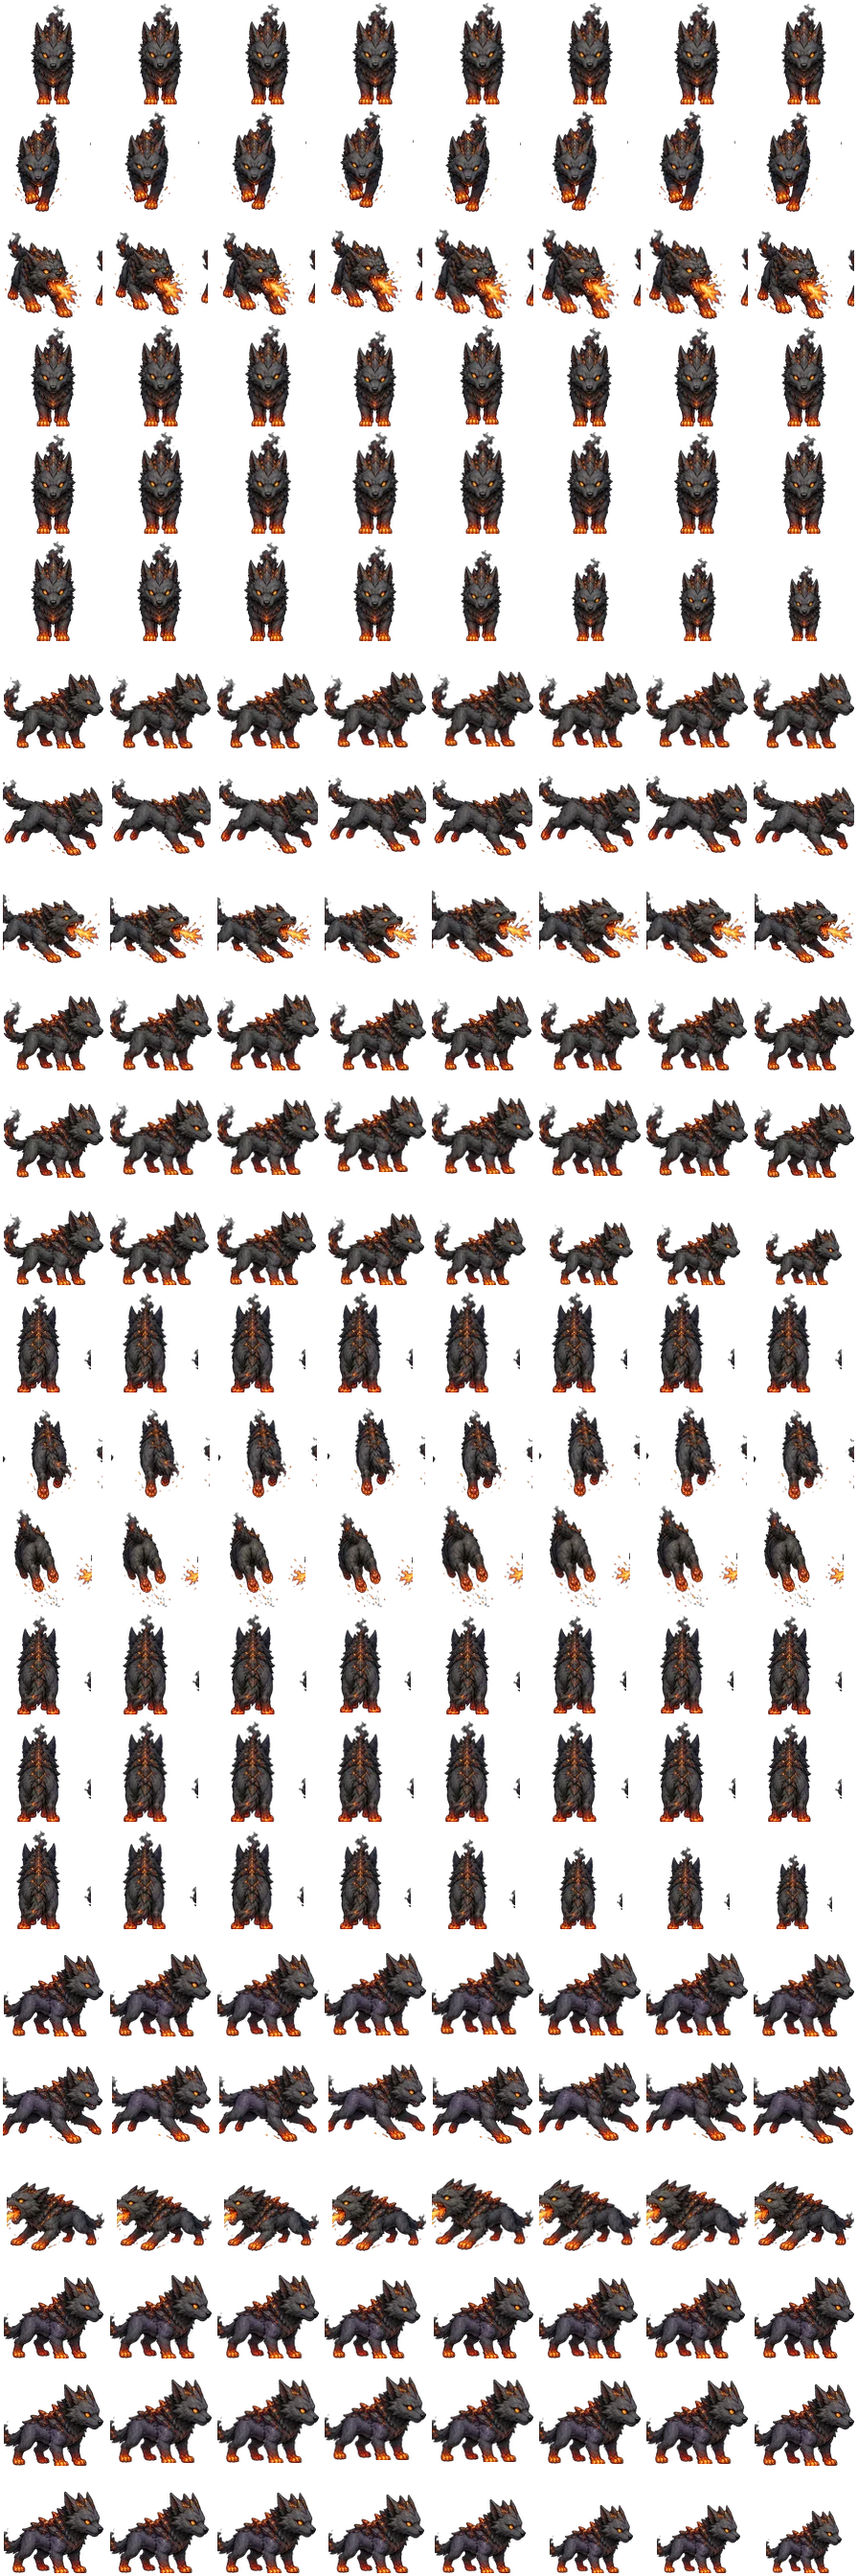
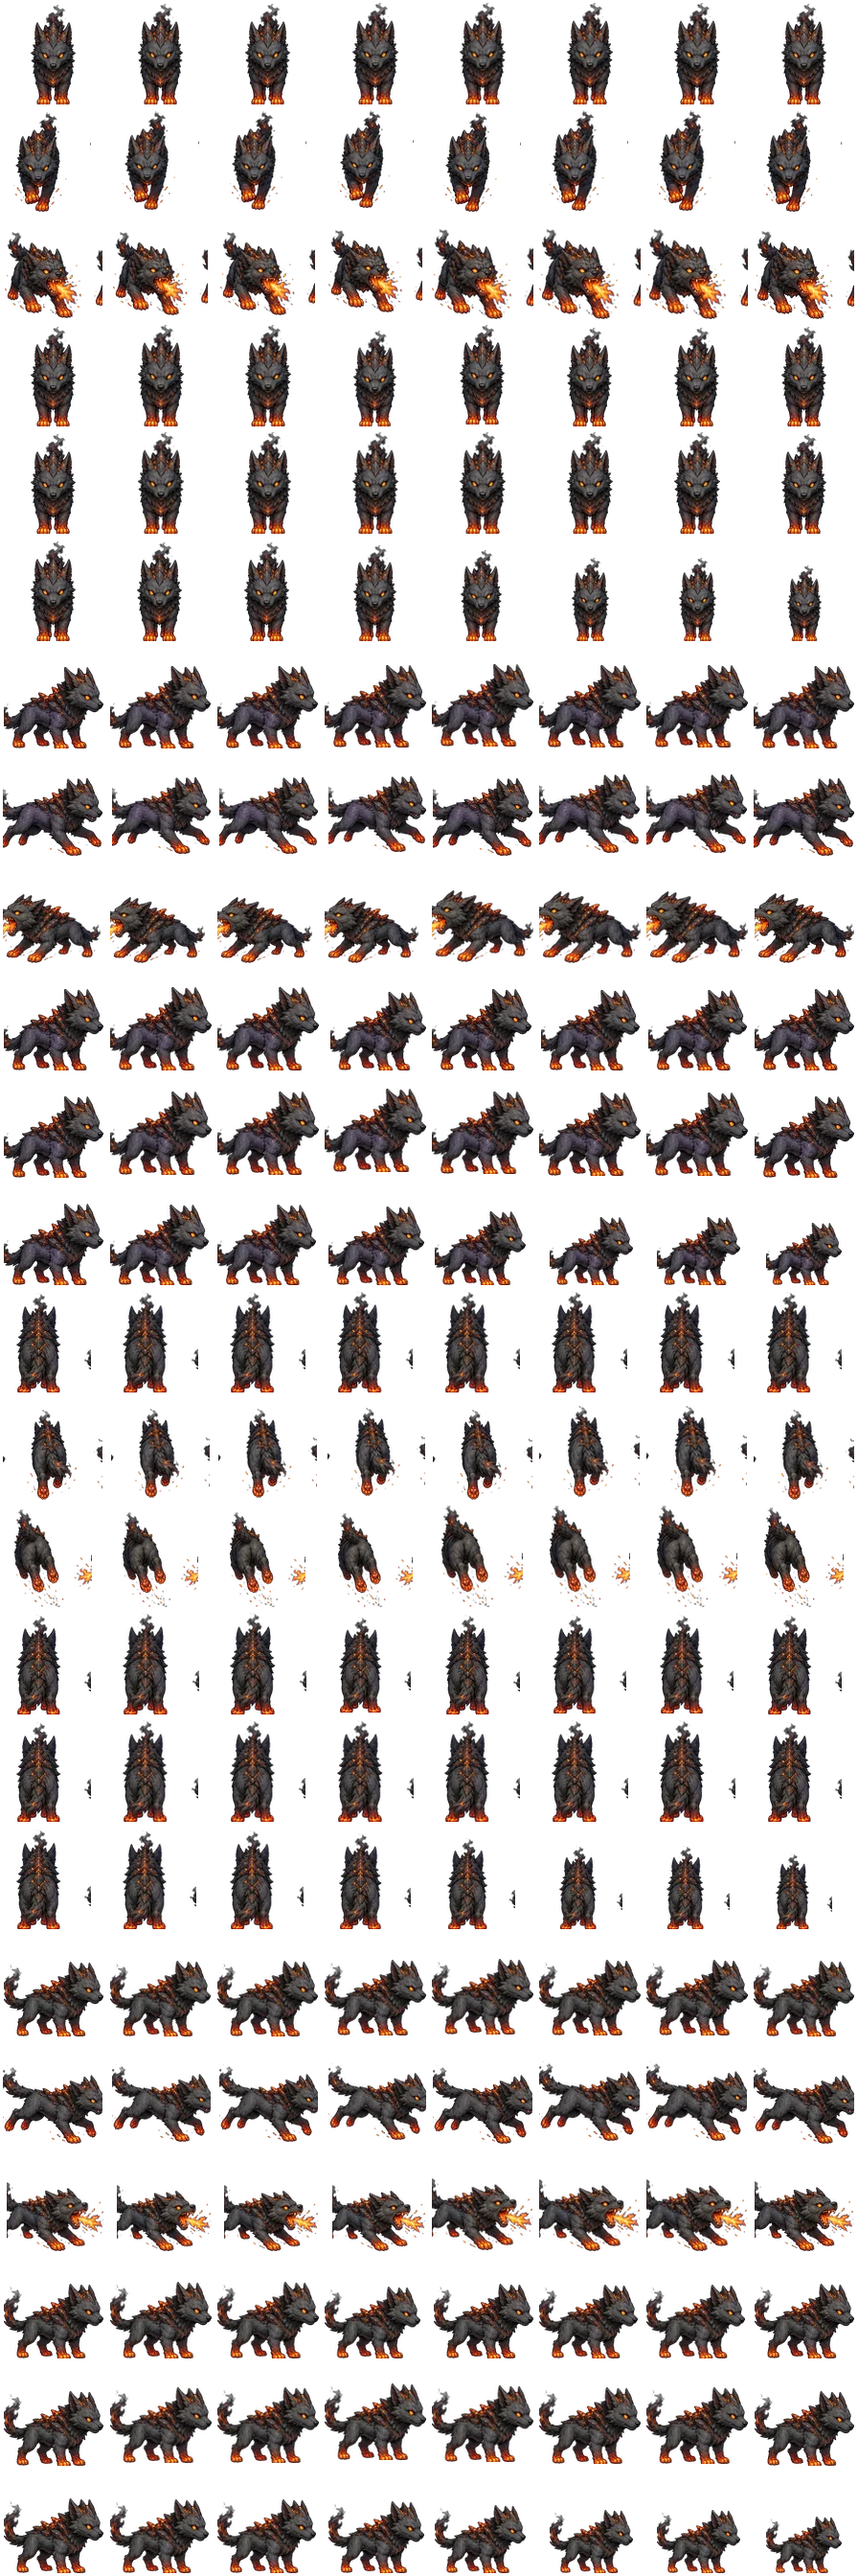
fix: correct ash hound horizontal facing

Changed region(s): [[0.0, 0.75, 1.0, 1.0], [0.0, 0.25, 1.0, 0.5]]

diff --git a/tactics.html b/tactics.html
@@ -79,6 +79,6 @@
   <div id="home-display-modal" class="deploy-modal" hidden><section class="deploy-dialog home-display-dialog" role="dialog" aria-modal="true" aria-labelledby="home-display-title"><div class="deploy-head"><div><p class="eyebrow">旗艦設定</p><h2 id="home-display-title">選擇機庫展示幻獸</h2></div><button class="close-deploy" data-close="home-display-modal" aria-label="關閉展示設定">×</button></div><p class="gacha-info">這五隻是首頁展示候選；更換展示不會影響你實際擁有或出戰的幻獸。</p><label class="home-display-mode"><input id="home-display-follow" type="checkbox"> 展示跟隨目前隊長</label><div id="home-display-grid" class="home-display-grid"></div></section></div>
   <div id="story-modal" class="deploy-modal story-modal" hidden><section class="deploy-dialog story-dialog" role="dialog" aria-modal="true" aria-labelledby="story-title"><div id="story-art" class="story-art"></div><div class="story-body"><p id="story-kicker" class="eyebrow"></p><p id="story-speaker" class="story-speaker"></p><h2 id="story-title"></h2><p id="story-copy"></p><button id="story-next" class="primary" type="button">繼續</button></div></section></div>
   <script>window.__consoleErrors=[];window.addEventListener('error',function(e){window.__consoleErrors.push(String(e.message||e.error));});window.addEventListener('unhandledrejection',function(e){window.__consoleErrors.push(String(e.reason));});</script>
-  <script src="js/data/pets.js"></script><script src="js/data/pets-lightdark.js?v=1"></script><script src="js/data/pets-pack.js?v=1"></script><script src="js/data/tactical-pets.js?v=8"></script><script src="js/data/tactical-enemies.js?v=5"></script><script src="js/data/map-terrain.js?v=1"></script><script src="js/data/tactical-content.js?v=11"></script><script src="js/data/story-content.js?v=3"></script><script src="js/data/animation-config.js?v=1"></script><script src="assets/animations/directional/manifest.js?v=9"></script><script src="js/core/TacticalProgression.js?v=12"></script><script src="js/core/TacticalAudio.js?v=2"></script><script src="js/tactics.js?v=68"></script>
+  <script src="js/data/pets.js"></script><script src="js/data/pets-lightdark.js?v=1"></script><script src="js/data/pets-pack.js?v=1"></script><script src="js/data/tactical-pets.js?v=8"></script><script src="js/data/tactical-enemies.js?v=5"></script><script src="js/data/map-terrain.js?v=1"></script><script src="js/data/tactical-content.js?v=11"></script><script src="js/data/story-content.js?v=3"></script><script src="js/data/animation-config.js?v=1"></script><script src="assets/animations/directional/manifest.js?v=10"></script><script src="js/core/TacticalProgression.js?v=12"></script><script src="js/core/TacticalAudio.js?v=2"></script><script src="js/tactics.js?v=69"></script>
 </body>
 </html>

diff --git a/js/tactics.js b/js/tactics.js
@@ -204,7 +204,7 @@
     var stage = Math.max(1, Math.min(3, Number(unit.evolution) || 1));
     var stagePortrait = unit.p.evolution[Math.min(stage, unit.p.evolution.length) - 1]?.portrait || '';
     var stageSuffix = stage > 1 && stagePortrait.indexOf('assets/pets/' + unit.id + '/evolution/stage_' + stage + '.png') === 0 ? '-stage_' + stage : '';
-    return '../assets/animations/directional/' + unit.id + stageSuffix + '-motion-4dir-sheet.webp?v=33';
+    return '../assets/animations/directional/' + unit.id + stageSuffix + '-motion-4dir-sheet.webp?v=34';
   }
   function motionManifestEntry(unit) { return (window.TACTICAL_MOTION_MANIFEST || {})[unit.id] || {}; }
   function animationSpec(unit, action, override) {

diff --git a/assets/animations/directional/manifest.js b/assets/animations/directional/manifest.js
@@ -807,9 +807,9 @@ window.TACTICAL_MOTION_MANIFEST = {
     },
     "sourceColumns": [
       0,
-      1,
+      3,
       2,
-      3
+      1
     ],
     "sourceType": "authored-four-direction",
     "source": "assets/animations/directional/sources/ash_hound-four-direction-reference-v1-alpha.png",

diff --git a/scripts/build-four-direction-motion.py b/scripts/build-four-direction-motion.py
@@ -8,6 +8,7 @@ from __future__ import annotations
 
 import json
 import os
+import re
 from pathlib import Path
 
 from PIL import Image, ImageOps
@@ -63,7 +64,7 @@ SOURCE_ALREADY_RIGHT = {
 # points right on the board.
 SWAPPED_SIDE_UNITS = {
     "fire_lion", "fire_fox", "leaf_ear_rabbit", "rotcap_rootling", "venom_mantis",
-    "fog_wisp", "gloom_turtle",
+    "fog_wisp", "gloom_turtle", "ash_hound",
 }
 # AI grids occasionally let an adjacent cell's tail or attack trail cross the
 # cell boundary.  Remove only the verified intrusion, before scaling it into a
@@ -319,10 +320,18 @@ def main() -> None:
         stale.unlink()
     for stale in OUTPUT_DIR.glob("*-motion-4dir-sheet.webp"):
         stale.unlink()
-    authored_sources = {
-        source.name.split("-four-direction-reference-")[0]: source
-        for source in SOURCE_DIR.glob("*-four-direction-reference-v*-alpha.png")
-    }
+    # A unit may receive successive approved redraws.  Always take the highest
+    # numeric version, rather than relying on filesystem enumeration order.
+    authored_sources: dict[str, Path] = {}
+    for source in SOURCE_DIR.glob("*-four-direction-reference-v*-alpha.png"):
+        match = re.match(r"(.+)-four-direction-reference-v(\d+)-alpha\.png$", source.name)
+        if not match:
+            continue
+        unit_id, version = match.group(1), int(match.group(2))
+        current = authored_sources.get(unit_id)
+        current_match = re.match(r".+-four-direction-reference-v(\d+)-alpha\.png$", current.name) if current else None
+        if current_match is None or version > int(current_match.group(1)):
+            authored_sources[unit_id] = source
     manifest: dict[str, object] = {}
     legacy_manifest = json.loads((LEGACY_DIR / "manifest.json").read_text(encoding="utf-8"))
     for unit_id in sorted(legacy_manifest):
